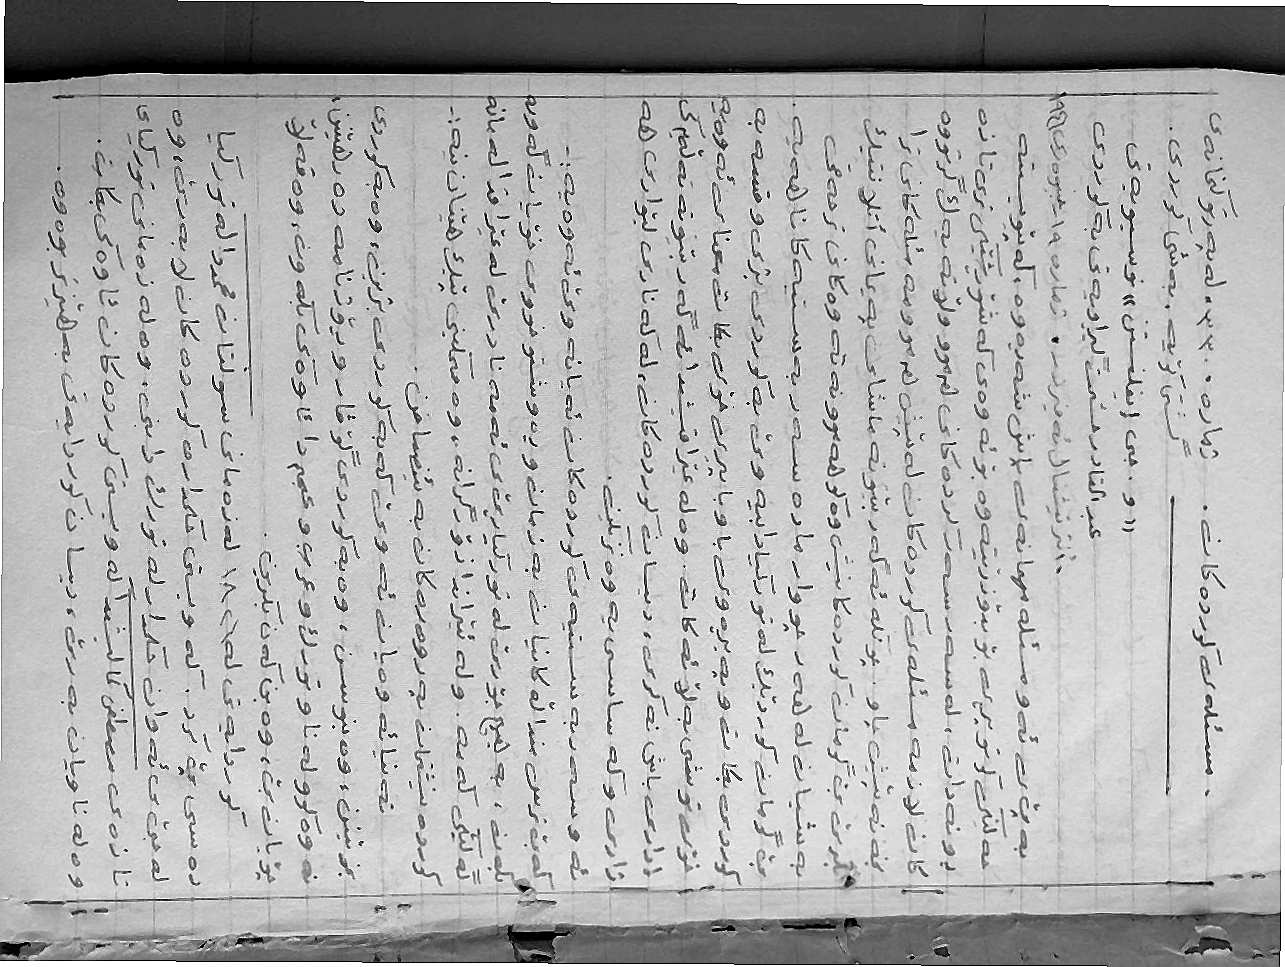
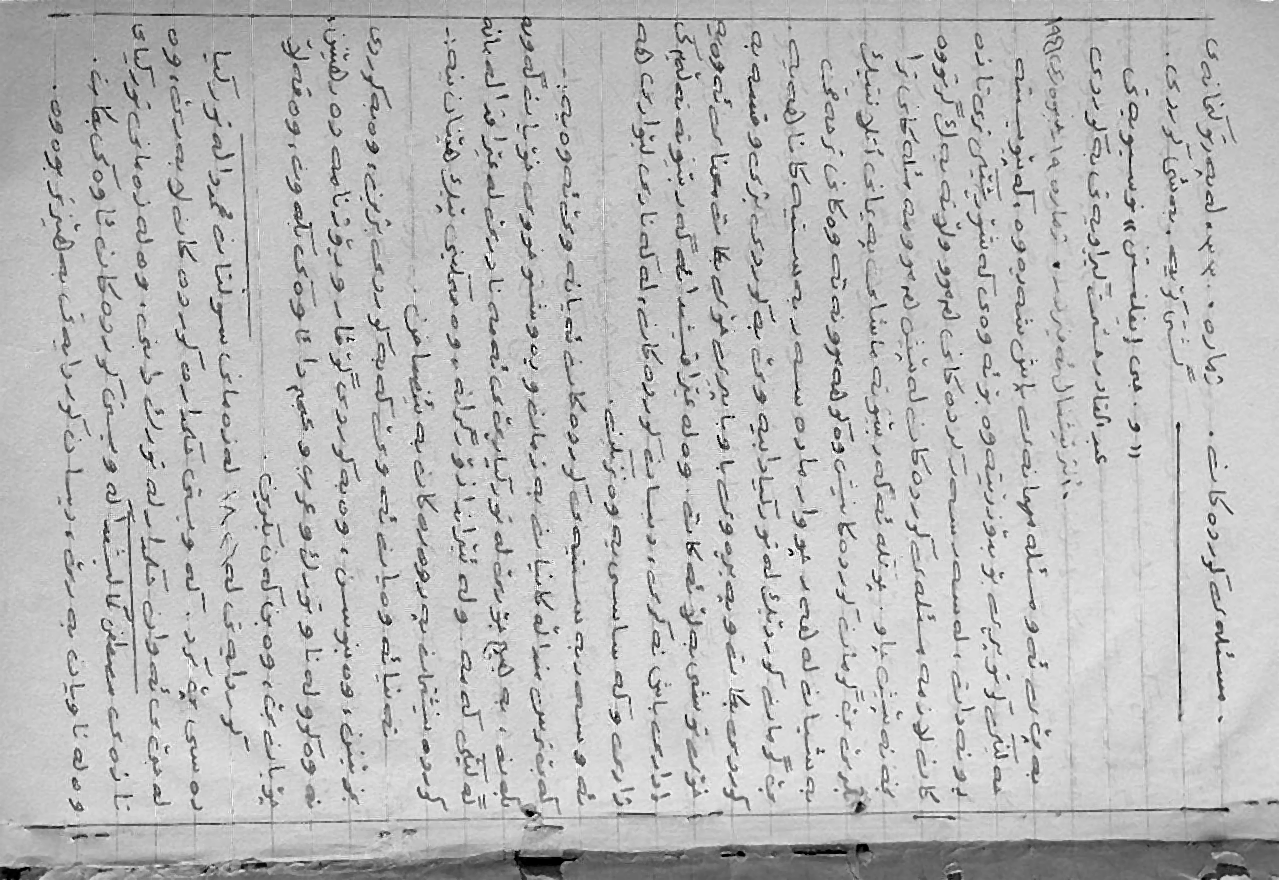
auto detect document added

diff --git a/src/DemoApp/Properties/Resources.Designer.cs b/src/DemoApp/Properties/Resources.Designer.cs
@@ -8,10 +8,10 @@
 // </auto-generated>
 //------------------------------------------------------------------------------
 
-namespace DemoApp.Properties
-{
-
-
+namespace DemoApp.Properties {
+    using System;
+    
+    
     /// <summary>
     ///   A strongly-typed resource class, for looking up localized strings, etc.
     /// </summary>
@@ -19,51 +19,43 @@ namespace DemoApp.Properties
     // class via a tool like ResGen or Visual Studio.
     // To add or remove a member, edit your .ResX file then rerun ResGen
     // with the /str option, or rebuild your VS project.
-    [global::System.CodeDom.Compiler.GeneratedCodeAttribute("System.Resources.Tools.StronglyTypedResourceBuilder", "4.0.0.0")]
+    [global::System.CodeDom.Compiler.GeneratedCodeAttribute("System.Resources.Tools.StronglyTypedResourceBuilder", "16.0.0.0")]
     [global::System.Diagnostics.DebuggerNonUserCodeAttribute()]
     [global::System.Runtime.CompilerServices.CompilerGeneratedAttribute()]
-    internal class Resources
-    {
-
+    internal class Resources {
+        
         private static global::System.Resources.ResourceManager resourceMan;
-
+        
         private static global::System.Globalization.CultureInfo resourceCulture;
-
+        
         [global::System.Diagnostics.CodeAnalysis.SuppressMessageAttribute("Microsoft.Performance", "CA1811:AvoidUncalledPrivateCode")]
-        internal Resources()
-        {
+        internal Resources() {
         }
-
+        
         /// <summary>
         ///   Returns the cached ResourceManager instance used by this class.
         /// </summary>
         [global::System.ComponentModel.EditorBrowsableAttribute(global::System.ComponentModel.EditorBrowsableState.Advanced)]
-        internal static global::System.Resources.ResourceManager ResourceManager
-        {
-            get
-            {
-                if ((resourceMan == null))
-                {
+        internal static global::System.Resources.ResourceManager ResourceManager {
+            get {
+                if (object.ReferenceEquals(resourceMan, null)) {
                     global::System.Resources.ResourceManager temp = new global::System.Resources.ResourceManager("DemoApp.Properties.Resources", typeof(Resources).Assembly);
                     resourceMan = temp;
                 }
                 return resourceMan;
             }
         }
-
+        
         /// <summary>
         ///   Overrides the current thread's CurrentUICulture property for all
         ///   resource lookups using this strongly typed resource class.
         /// </summary>
         [global::System.ComponentModel.EditorBrowsableAttribute(global::System.ComponentModel.EditorBrowsableState.Advanced)]
-        internal static global::System.Globalization.CultureInfo Culture
-        {
-            get
-            {
+        internal static global::System.Globalization.CultureInfo Culture {
+            get {
                 return resourceCulture;
             }
-            set
-            {
+            set {
                 resourceCulture = value;
             }
         }

diff --git a/src/ImageProcessing/PreProcess.cs b/src/ImageProcessing/PreProcess.cs
@@ -1,7 +1,10 @@
 
 using AForge.Imaging;
 using AForge.Imaging.Filters;
+using System;
+using System.Collections.Generic;
 using System.Drawing;
+using System.Linq;
 
 namespace ImageProcessing
 {
@@ -19,10 +22,12 @@ namespace ImageProcessing
         public void Start()
         {
             Convert2Grayscale();
+            CropDocument();
             CorrectContrastAndBrightness();
             ApplyMedian();
             FixOrientation();
-            Sharpen();
+            //Sharpen();
+            
         }
         private void Convert2Grayscale()
         {
@@ -73,6 +78,25 @@ namespace ImageProcessing
         public Bitmap GetProcessedImage()
         {
             return InputImage.ToManagedImage();
+        }
+        public void CropDocument()
+        {
+
+            CannyEdgeDetector df = new CannyEdgeDetector();
+
+            UnmanagedImage diffImage = df.Apply(InputImage);
+            Dilatation DilatationFilter = new Dilatation();
+            DilatationFilter.ApplyInPlace(diffImage);
+            Sharpen();
+           
+           QuadrilateralFinder qf = new QuadrilateralFinder();
+            List<AForge.IntPoint> corners = qf.ProcessImage(diffImage);
+
+            Console.WriteLine(corners.ElementAt(0).X +" "+corners.ElementAt(0).Y);
+            SimpleQuadrilateralTransformation filter =
+                new SimpleQuadrilateralTransformation(corners);
+            InputImage = filter.Apply(InputImage);
+
         }
     }
 }

diff --git a/src/DemoApp/Properties/Settings.Designer.cs b/src/DemoApp/Properties/Settings.Designer.cs
@@ -8,21 +8,17 @@
 // </auto-generated>
 //------------------------------------------------------------------------------
 
-namespace DemoApp.Properties
-{
-
-
+namespace DemoApp.Properties {
+    
+    
     [global::System.Runtime.CompilerServices.CompilerGeneratedAttribute()]
-    [global::System.CodeDom.Compiler.GeneratedCodeAttribute("Microsoft.VisualStudio.Editors.SettingsDesigner.SettingsSingleFileGenerator", "11.0.0.0")]
-    internal sealed partial class Settings : global::System.Configuration.ApplicationSettingsBase
-    {
-
+    [global::System.CodeDom.Compiler.GeneratedCodeAttribute("Microsoft.VisualStudio.Editors.SettingsDesigner.SettingsSingleFileGenerator", "16.7.0.0")]
+    internal sealed partial class Settings : global::System.Configuration.ApplicationSettingsBase {
+        
         private static Settings defaultInstance = ((Settings)(global::System.Configuration.ApplicationSettingsBase.Synchronized(new Settings())));
-
-        public static Settings Default
-        {
-            get
-            {
+        
+        public static Settings Default {
+            get {
                 return defaultInstance;
             }
         }

diff --git a/src/ClassLibraryTesting/Program.cs b/src/ClassLibraryTesting/Program.cs
@@ -11,9 +11,9 @@ namespace ClassLibraryTesting
             pr.Start();
             pr.GetProcessedImage().Save("../../../result-doc.jpg");
 
-            PreProcess pr2 = new PreProcess("../../../doc2.jpg");
-            pr2.Start();
-            pr2.GetProcessedImage().Save("../../../result-doc2.jpg");
+            //PreProcess pr2 = new PreProcess("../../../doc2.jpg");
+            //pr2.Start();
+            //pr2.GetProcessedImage().Save("../../../result-doc2.jpg");
             Console.WriteLine("Done....");
         }
     }
